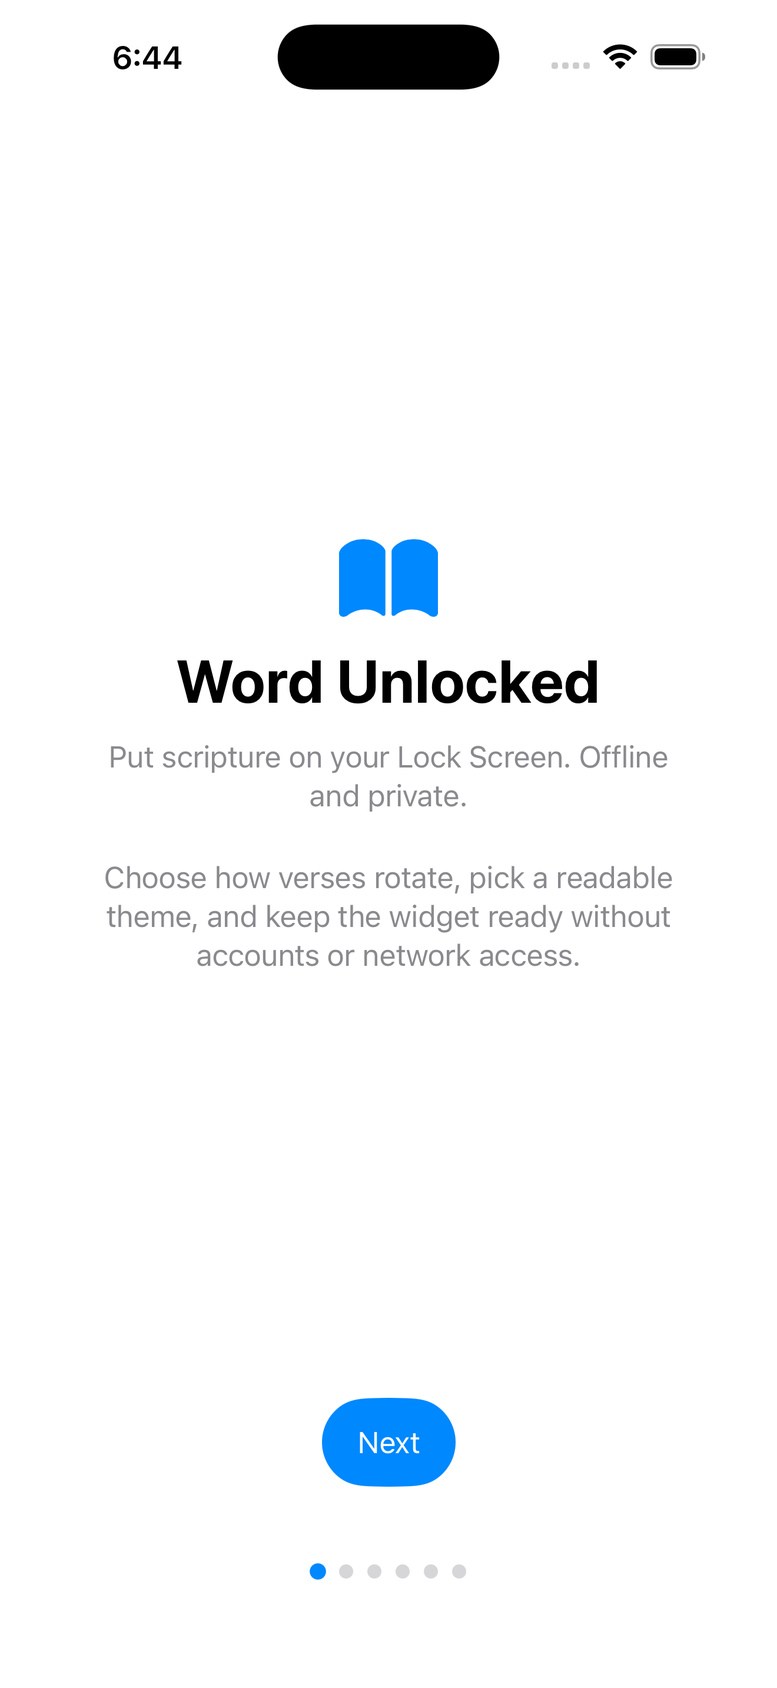
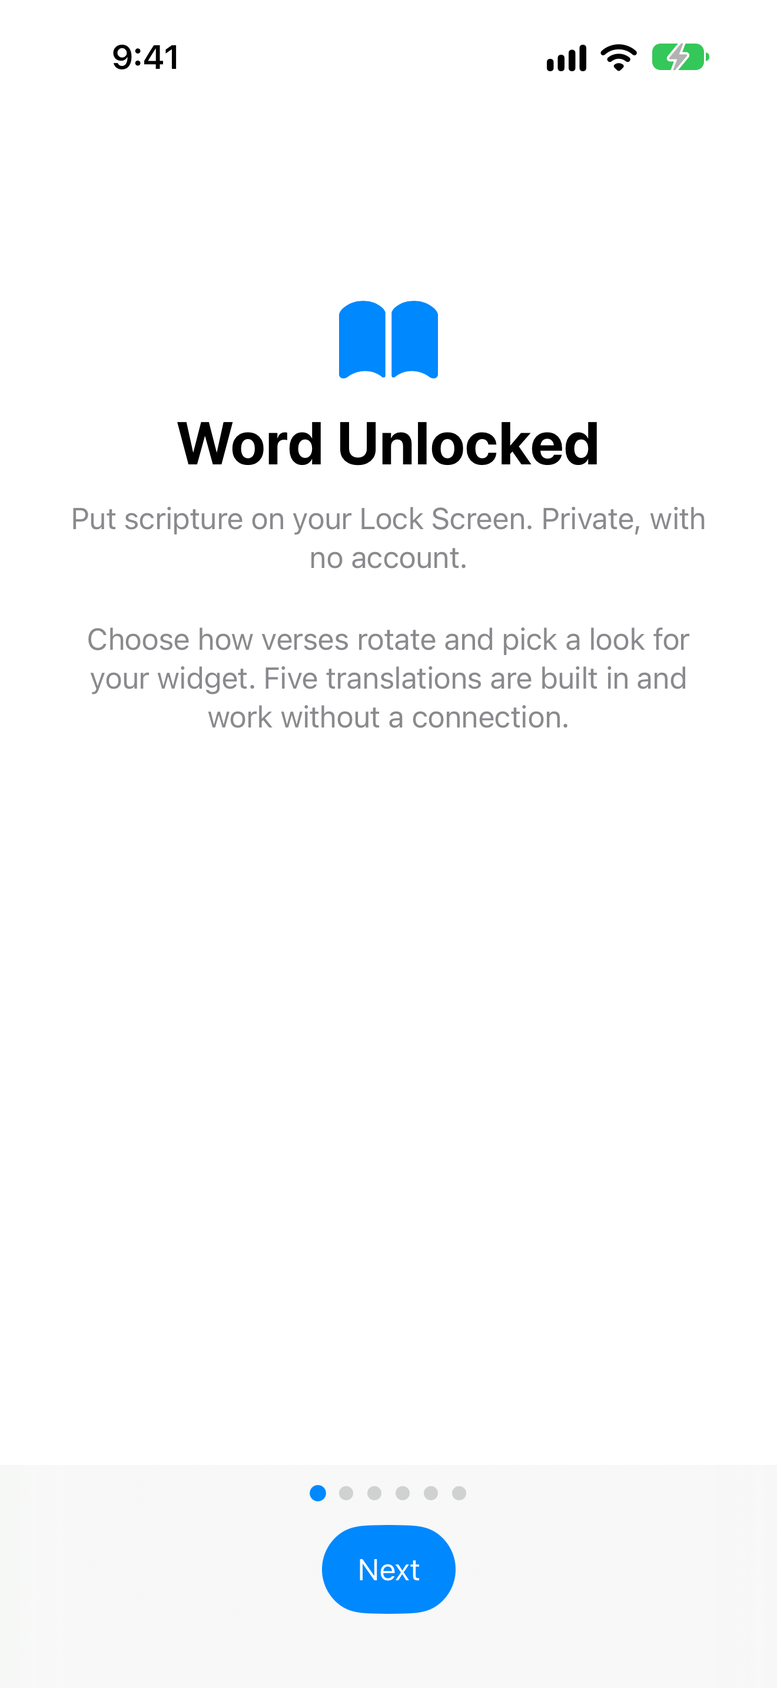
docs: align pages, listing and records with the audit fixes
- Privacy, support and landing pages say what reaches Crossway and Living
  Stream Ministry, that settings are in device backups, and where
  Translation now lives. Privacy policy dated September 28, 2026.
- The listing drops "used by permission" from the Recovery Version line
  (LSM's terms forbid implying a relationship) and describes themes, Daily
  Verse and Memorization as they now work.
- The nine 6.9" screenshots are retaken for the five-tab layout.
- HANDOFF.md records the batch, and corrects the contact address: the app
  and pages publish privacy@rippre.com, confirmed 2026-09-12; only commit
  metadata uses help@rippre.com. The engrams that said otherwise, and the
  one saying tests read keys from Info.plist, are corrected.

diff --git a/docs/privacy.html b/docs/privacy.html
@@ -6,7 +6,7 @@
 <meta charset="UTF-8">
 <meta name="viewport" content="width=device-width, initial-scale=1">
 <title>Privacy Policy — Word Unlocked</title>
-<meta name="description" content="Word Unlocked privacy policy: no accounts, no analytics, no tracking, no ads. Two optional live translations fetch verses only when selected.">
+<meta name="description" content="Word Unlocked privacy policy: no accounts, no analytics, no tracking, no ads. Two optional live translations request verses from their publishers only when selected.">
 <style>
   :root { color-scheme: dark; }
   * { box-sizing: border-box; }
@@ -147,7 +147,7 @@
 <main>
   <div class="wrap">
     <h1>Privacy Policy</h1>
-    <p class="updated">Last updated: September 14, 2026</p>
+    <p class="updated">Last updated: September 28, 2026</p>
 
     <div class="summary">
       <p>Word Unlocked at a glance:</p>
@@ -165,27 +165,27 @@
 
     <section>
       <h2>Data Collection</h2>
-      <p>No data is ever collected. Word Unlocked does not collect, store, or transmit any personal data. There are no accounts, no analytics, no advertising identifiers, and no crash reporting.</p>
+      <p>Word Unlocked collects no personal data. There are no accounts, no analytics, no advertising identifiers, and no crash reporting, and the app sends nothing to any server operated by Word Unlocked.</p>
       <p>This is reflected in the app's Apple Privacy Manifest and its App Store product page, where Word Unlocked's App Privacy is declared as "Data Not Collected."</p>
     </section>
 
     <section>
       <h2>Network Access</h2>
-      <p>Word Unlocked bundles five Bible translations that work entirely offline. Two additional translations are available live, and each only makes a network request when you actually select it.</p>
+      <p>Word Unlocked bundles five Bible translations that work entirely offline. Two more translations come from their publishers, and the app contacts a publisher only while its translation is selected.</p>
 
       <h3>Offline translations</h3>
       <p>King James Version (KJV), World English Bible (WEB), Berean Standard Bible (BSB), American Standard Version (ASV), and Literal Standard Version (LSV) are bundled with the app and stored entirely on your device. No network request is ever made when one of these translations is selected.</p>
 
       <h3>English Standard Version (ESV)</h3>
-      <p>When the English Standard Version is selected, the app downloads the verses your chosen mode will show next from <code>api.esv.org</code>, operated by Crossway, at most once every 48 hours. Up to 500 of them are kept on your device so the Lock Screen widget works offline; Crossway's terms allow no more than that, or half of any book. Requests contain only verse references &mdash; nothing is sent to any server operated by this app.</p>
+      <p>When the English Standard Version is selected, the app downloads the verses your chosen mode will show next from <code>api.esv.org</code>, operated by Crossway, at most once every 48 hours. Up to 500 of them are kept on your device so the Lock Screen widget works offline; Crossway's terms allow no more than that, or half of any book. Each request lists those verses, so it reflects the mode or topic you chose. Like any web request, it reaches Crossway with your device's IP address and basic app and system details, such as the app and iOS versions. Crossway handles these requests under its own privacy policy.</p>
 
       <h3>Recovery Version (RV)</h3>
-      <p>When the Recovery Version is selected, the verse you are reading is requested from <code>api.lsm.org</code>, operated by Living Stream Ministry. Its text is held in memory while you read and is never stored on your device, as Living Stream Ministry's terms require, so the Lock Screen widget shows the King James Version instead. Requests contain only the verse reference &mdash; nothing is sent to any server operated by this app.</p>
+      <p>When the Recovery Version is selected, the verse you are reading is requested from <code>api.lsm.org</code>, operated by Living Stream Ministry. Its text is held in memory while you read and is never stored on your device, as Living Stream Ministry's terms require, so the Lock Screen widget shows the King James Version instead. Like any web request, each one reaches Living Stream Ministry with the verse reference, your device's IP address and basic app and system details, such as the app and iOS versions. Living Stream Ministry handles these requests under its own privacy policy.</p>
     </section>
 
     <section>
       <h2>Local Storage</h2>
-      <p>Your settings, favorites, memorization progress, and downloaded English Standard Version verses are stored locally in an App Group container (<code>group.com.rippre.wordunlocked</code>), shared only between Word Unlocked and its Lock Screen widget on the same device. This data is never uploaded or shared externally.</p>
+      <p>Your settings, favorites, memorization progress, and downloaded English Standard Version verses are stored locally in an App Group container (<code>group.com.rippre.wordunlocked</code>), shared only between Word Unlocked and its widgets on the same device. Word Unlocked never uploads it; like other app data, it is included in your device's backups.</p>
     </section>
 
     <section>

diff --git a/docs/support.html b/docs/support.html
@@ -170,12 +170,17 @@
 
       <details>
         <summary>Why isn't my verse updating?</summary>
-        <p>iOS manages exactly when widgets refresh to save battery, so updates aren't always instant. First check Settings in the app to confirm you're in the mode and translation you expect &mdash; modes like Daily Verse, Topic, and Chapter each have their own update or rotation interval. If the English Standard Version is selected, new verses download at most once every 48 hours, and a verse that hasn&rsquo;t downloaded yet shows in the King James Version. The Recovery Version can&rsquo;t be stored on your device, so while it&rsquo;s selected the widget shows the King James Version.</p>
+        <p>iOS manages exactly when widgets refresh to save battery, so updates aren't always instant. First open Today in the app to confirm you're in the mode and translation you expect &mdash; modes like Daily Verse, Topic, and Chapter each have their own update or rotation interval, which you can change by tapping the mode in the Modes tab. If the English Standard Version is selected, new verses download at most once every 48 hours, and a verse that hasn&rsquo;t downloaded yet shows in the King James Version. The Recovery Version can&rsquo;t be stored on your device, so while it&rsquo;s selected the widget shows the King James Version.</p>
       </details>
 
       <details>
         <summary>How do I switch translations?</summary>
-        <p>Open the app and go to Settings, then use the Default Translation picker (or the Translations tab to browse all available translations). KJV, WEB, BSB, ASV, and LSV are available immediately since they're bundled offline. Selecting the English Standard Version downloads the verses your mode shows next; the Recovery Version loads each verse while you read.</p>
+        <p>Open the app, go to the Settings tab, and tap Translation. KJV, WEB, BSB, ASV, and LSV are available immediately since they're bundled offline. Selecting the English Standard Version downloads the verses your mode shows next; the Recovery Version loads each verse while you read.</p>
+      </details>
+
+      <details>
+        <summary>What do the long-verse options do?</summary>
+        <p>The Lock Screen widget has room for about 130 characters. In Settings, Long Verse Handling chooses what happens to a longer verse: Smart Fit and Excerpt show its opening, Segmented shows it in parts that take turns every 20 minutes, Reference Only shows just the reference, and Exclude Long skips long verses where the mode allows.</p>
       </details>
 
       <details>

diff --git a/docs/index.html b/docs/index.html
@@ -172,15 +172,15 @@
       </div>
       <div class="card">
         <h2>Nothing collected</h2>
-        <p>No accounts, no analytics, no ads, no tracking. Word Unlocked's App Store privacy label is "Data Not Collected."</p>
+        <p>No accounts, no analytics, no ads, no tracking, and no server of its own. Word Unlocked's App Store privacy label is "Data Not Collected."</p>
       </div>
       <div class="card">
         <h2>Two optional live translations</h2>
-        <p>The English Standard Version keeps up to 500 downloaded verses on your device for the Lock Screen; the Recovery Version loads while you read.</p>
+        <p>The English Standard Version keeps up to 500 downloaded verses on your device for the Lock Screen; the Recovery Version loads while you read. Both come straight from their publishers.</p>
       </div>
       <div class="card">
         <h2>Built for the Lock Screen</h2>
-        <p>Inline, circular, and rectangular widget styles designed for iOS Lock Screen customization.</p>
+        <p>Inline, circular, and rectangular Lock Screen widgets, plus themed Home Screen widgets and verse wallpapers that stay clear of the clock.</p>
       </div>
     </div>
 

diff --git a/HANDOFF.md b/HANDOFF.md
@@ -1,5 +1,70 @@
 # Handoff — Word Unlocked (Bible Widget App)
 
+## Update 2026-09-28 — every finding from the 2026-09-27 audit is fixed
+
+The audit (7 high, 14 medium, 22 low; private report
+https://claude.ai/artifact/LpkyYd96PZpsEx3W6AAuwo) is fixed in one batch. Verified with
+Xcode 27.0 and the iOS 27.0 simulator SDK: 104 tests in 10 suites pass (the two live API
+tests skip by design), and the Debug simulator build and the unsigned Release device build
+both have 0 warnings.
+
+**Licensing and privacy**
+- **No more URL cache.** Both live services use `LiveAPISession.shared`, an ephemeral
+  session with `urlCache = nil`, so no Recovery Version text, ESV download or API key
+  reaches `Library/Caches/…/Cache.db`. The app clears the old shared cache at every launch,
+  and deletes any Recovery Version rows that debug builds before this one copied into its
+  database. Checked after a live Recovery Version request: `Cache.db` held 0 rows.
+- **The keys left Info.plist.** The app target's first build phase, "Embed API Keys",
+  writes the three values from the gitignored `Config/Secrets.xcconfig` into
+  `$(DERIVED_FILE_DIR)/LiveAPIKeys.swift`, XOR-masked so neither the ESV key nor the LSM
+  token is a plain string in the binary (checked: 0 matches in the built .app; the LSM app
+  ID is just the bundle id). The project references that file with
+  `sourceTree = DERIVED_FILE_DIR` — Xcode does not compile a script's output on its own.
+  An empty or `YOUR_…` value means not configured, and the translation stays hidden.
+  **Rotation plan:** if a key is revoked or its quota abused, issue a new one at
+  api.esv.org or with LSM, put it in `Secrets.xcconfig`, rebuild and ship; watch both
+  providers' usage pages after launch.
+- **ESV's 48 hours can't be skipped.** The time is recorded before the request goes out
+  and rolled back only when the request never left the device (offline, DNS, TLS,
+  certificate or ATS failures). The download runs in its own task, so leaving Today
+  mid-download no longer throws it away.
+- **Every verse is labelled with its own translation** (`Verse.translationCode`), so ESV
+  text never shows as KJV, and a favorite keeps the translation it was saved in.
+- Privacy wording in the app, on the three pages and in the listing now says what reaches
+  Crossway and LSM (IP address, app and OS version, the verses asked for). The listing no
+  longer says Recovery Version text is "used by permission".
+
+**What people see**
+- Daily Verse draws from the 665 curated verses in a shuffled order (matched by book,
+  chapter and verse in the other translations), keeping the testament filters.
+- Memorization shows its steps on Today and the widget: whole verse, blanks, first
+  letters, reference only, review — one step per local calendar day.
+- Five tabs (Translations moved into Settings), onboarding keeps Next visible, the active
+  mode's settings open, mode sheets save and close, Search reads "Psalm 23", "1 Kings 2",
+  "Jude 3" and ranges, Favorites has Edit, reorder, Share and Remove.
+- Widget: Segmented takes turns every 20 minutes within a verse's slot, Reference Only
+  shows the reference, Chapter's Show Progress adds "Verse 3 of 36", tapping a widget
+  opens Today, references are written out ("1 Kings 2:2"), and a timeline built before
+  first unlock is retried after 15 minutes instead of at midnight.
+- New "Automatic" theme follows Light and Dark Mode and is the default; three accents
+  were darkened to pass 4.5:1.
+- Favorites decode one by one and are rewritten only when a migration changed them; old
+  Recovery Version favorites become the KJV text of the same verse.
+- Seed scripts verify TLS and pin their sources by commit or SHA-256;
+  `fetch_esv_seed.py` is deleted. The current BSB source differs from the shipped seed
+  only at 2 Timothy 1:15 ("province" vs "Province"); the database was not regenerated.
+
+**Correction — the contact address is privacy@rippre.com.** Item 5 below used to say
+help@rippre.com is used everywhere. It isn't: the owner confirmed privacy@rippre.com on
+2026-09-12, and the 2026-09-14 history rewrite changed only the commit author email to
+help@rippre.com. The app and all three hosted pages publish privacy@rippre.com.
+
+The nine 6.9" screenshots in `marketing/screenshots/6.9/` were retaken from a fresh
+install on a dedicated iPhone 17 Pro Max simulator ("WordUnlocked Shots", iOS 27.0,
+status bar set to 9:41), so they show the five tabs and the new Today.
+
+**Still the owner's:** Apple signing and the App Store Connect record.
+
 ## Update 2026-09-22 — where the to-do list actually stands
 
 Nothing is in flight. `main` = `origin/main` = `b5ef1ce`, working tree clean; 72/72 tests
@@ -258,8 +323,9 @@ Kept for the detail in it; see the 2026-09-22 update above for what is still ope
    Original note:
    **GitHub Pages** — enable it (Settings → Pages → main, `/docs`), then put the
    resulting privacy/support URLs into App Store Connect.
-5. ~~**Decide `privacy@rippre.com`**~~ — DONE; the contact address is help@rippre.com
-   everywhere, including the rewritten commit history. Original note:
+5. ~~**Decide `privacy@rippre.com`**~~ — DONE; the contact address is privacy@rippre.com,
+   confirmed by the owner on 2026-09-12. Only the commit author email became
+   help@rippre.com (2026-09-14). Original note:
    **Decide `privacy@rippre.com`** — the in-app policy (SettingsView.swift:232) still
    shows it; the hosted pages used a personal address. Align once the user decides
    whether they own/keep the rippre.com mailbox.
@@ -291,19 +357,25 @@ Kept for the detail in it; see the 2026-09-22 update above for what is still ope
 - macOS has **no `timeout` command**; don't wrap network git calls with it.
 - Simulator point spaces used for taps: iPhone 17 Pro = 402×874, Pro Max = 440×956.
   Tab bar y≈839 (17 Pro); tabs at x≈62/127/201/275/340.
-- DEBUG-only dead path: `RVBibleService.fetch` tries `translationCode: "RV"` from the
-  seed DB, which has no RV rows (`rv_testing.json` is 665 verses, unused). Harmless;
-  release path unaffected.
+- ~~DEBUG-only dead path in `RVBibleService.fetch`~~ — removed 2026-09-28 along with the
+  local `seed_verses_rv_testing.json` (moved to the Trash; LSM's terms forbid keeping RV
+  text). The `.gitignore` line for it stays.
+- **A failing `xcodebuild test` then sits for up to 10 minutes** running
+  `simctl diagnose`. Pass `-collect-test-diagnostics never` to get the result at once.
+- **A Run Script's output is not compiled automatically**, even a `.swift` file listed
+  under Output Files: the target also needs a file reference to it (here
+  `sourceTree = DERIVED_FILE_DIR`) in its Sources phase.
 
 ## How to verify the world is still green
 
 ```bash
 cd "/Users/yg/Repositories/Bible Widget App/WordUnlocked"
 xcodebuild test -project WordUnlocked.xcodeproj -scheme WordUnlocked \
-  -sdk iphonesimulator -destination 'platform=iOS Simulator,name=iPhone 17 Pro Max'
+  -sdk iphonesimulator -destination 'platform=iOS Simulator,name=iPhone 17 Pro Max' \
+  -collect-test-diagnostics never
 ```
-Expect: `Test run with 72 tests in 5 suites passed` + `** TEST SUCCEEDED **` (the two live
-API tests are skipped unless `TEST_RUNNER_LIVE_API_TESTS=1` is set).
+Expect: `Test run with 104 tests in 10 suites passed` + `** TEST SUCCEEDED **` (the two
+live API tests are skipped unless `TEST_RUNNER_LIVE_API_TESTS=1` is set).
 Widget: same command with `-scheme WordUnlockedWidget` and `build` → BUILD SUCCEEDED.
 
 ## Fastest path to "submitted"

diff --git a/.engram/engrams/01m2c7cr5tj1yzhqfvcyjr46r5-word-unlocked-ship-status-2026-09-12.md b/.engram/engrams/01m2c7cr5tj1yzhqfvcyjr46r5-word-unlocked-ship-status-2026-09-12.md
@@ -8,12 +8,12 @@ tags:
   - app-store
 scope: project
 created: 2026-09-13T01:51:29.977Z
-updated: 2026-09-23T00:41:45.473Z
+updated: 2026-09-29T23:44:04.732Z
 author: HeiroGlyphics
 ---
 - Repo is public, and GitHub Pages is live at burntsteam.github.io/word-unlocked. The privacy and support URLs are recorded in marketing/app-store-listing.md.
-- The contact email is help@rippre.com everywhere: the app, docs/*.html, the listing, and commit metadata. (It was privacy@rippre.com until 2026-09-14.)
-- 6.9-inch screenshots are committed at marketing/screenshots/6.9.
+- The published contact address is privacy@rippre.com: the app's privacy policy, docs/*.html and the listing. The owner confirmed it on 2026-09-12. Only commit metadata uses help@rippre.com, since the 2026-09-14 history rewrite. (This engram used to say help@rippre.com was used everywhere; corrected 2026-09-28.)
+- 6.9-inch screenshots are committed at marketing/screenshots/6.9 (retaken 2026-09-28 for the five-tab layout, on a dedicated "WordUnlocked Shots" iPhone 17 Pro Max simulator).
 - ESV was enabled 2026-09-12. The key lives only in the gitignored Config/Secrets.xcconfig; the repo is public, so never commit it.
 
 2026-09-14 history rewrite: the owner asked for commit metadata to use help@rippre.com.
@@ -21,11 +21,11 @@ author: HeiroGlyphics
 - The repo-local user.email is help@rippre.com.
 - The pre-rewrite commits may stay fetchable on GitHub by SHA until GitHub garbage-collects them or Support purges them.
 
-2026-09-14 licensing pass: ESV is stored up to Crossway's limit (500 verses, never more than half a book) and downloads at most once every 48 hours; the Recovery Version is never stored, because LSM's terms forbid it. 72/72 tests including two live API tests, Release build 0 warnings.
+2026-09-14 licensing pass: ESV is stored up to Crossway's limit (500 verses, never more than half a book) and downloads at most once every 48 hours; the Recovery Version is never stored, because LSM's terms forbid it.
 
 2026-09-22: GitHub secret scanning and push protection are ON, history backfill 0 alerts — but generic-pattern scanning needs Advanced Security, so GitHub cannot see the ESV key or the LSM token. See 01m35dg60qnxvecf4ftpqchqpz. The local leak scan is still the real guard and is written into HANDOFF.md.
 
-2026-09-22: the graphify graph is current and complete for the first time — 65/65 communities named (87 curated names) and 730/734 nodes described, both in tracked sidecars. HANDOFF.md's top section has the state; 01m35jdk86gaqfqqtdgr68mgxa has the describe recipe and the CLI gotcha.
+2026-09-28: every finding of the 2026-09-27 audit (01m3hpvk) is fixed; 104 tests in 10 suites, Debug and Release 0 warnings on Xcode 27.0. HANDOFF.md's top section has the details.
 
 Remaining user-only items (everything else is done):
 - Xcode signing (0 identities, no DEVELOPMENT_TEAM) — blocks archiving

diff --git a/.engram/engrams/01m3hpvk1ewvqp04knc583vftr-word-unlocked-audit-2026-09-27-all-43-findings-fixed-2026-09.md b/.engram/engrams/01m3hpvk1ewvqp04knc583vftr-word-unlocked-audit-2026-09-27-all-43-findings-fixed-2026-09.md
@@ -1,0 +1,28 @@
+---
+id: 01m3hpvk1ewvqp04knc583vftr
+title: >-
+  Word Unlocked audit 2026-09-27: all 43 findings fixed 2026-09-28; URLCache
+  stored RV text
+type: issue
+tags:
+  - word-unlocked
+  - audit
+  - url-cache
+  - recovery-version
+  - esv
+  - licensing
+  - ux
+  - gotcha
+  - testing
+scope: project
+created: 2026-09-27T15:13:38.861Z
+updated: 2026-09-28T07:25:55.871Z
+author: HeiroGlyphics
+---
+Full code + live UI/UX audit on 2026-09-27 (report: https://claude.ai/artifact/LpkyYd96PZpsEx3W6AAuwo, private to the owner): 7 high, 14 medium, 22 low. All fixed on 2026-09-28; HANDOFF.md's top section lists what changed.
+
+Gotcha worth keeping: URLSession.shared's URLCache writes responses to Library/Caches/com.rippre.wordunlocked/Cache.db. Before the fix that stored Recovery Version text (LSM forbids it), every 300-verse ESV download under a new URL (can exceed Crossway's 500-verse cap over time), and the ESV key inside the cached request. Both live services now use LiveAPISession.shared (ephemeral, urlCache = nil), and the app clears URLCache.shared at launch. Verified 2026-09-28 after a live RV request: Cache.db had 0 rows and nothing under Library mentioned either API.
+
+The owner decision the audit raised is settled: the contact address is privacy@rippre.com (see 01m2c7cr).
+
+Testing technique: the simulator panel needs a one-time device-access approval before taps work. Without it, a throwaway XcodeGen UI-test bundle in the scratchpad can drive the installed app through XCUIApplication(bundleIdentifier: "com.rippre.wordunlocked"), with no change to the repo. Onboarding's ScrollViews ignore fast swipes, so use press(forDuration:thenDragTo:withVelocity: .slow). With .searchable, Search's keyboard covers the tab bar: tap the "Close" button before switching tabs. Home Screen widgets land on the page that was long-pressed, and pressing Home returns to a different page, so swipe to find them. widgetURL reaches onOpenURL with no URL scheme registered.

diff --git a/marketing/app-store-listing.md b/marketing/app-store-listing.md
@@ -75,16 +75,17 @@ offline. The Recovery Version loads while you read and isn't stored on your phon
 
 VERSES THAT MEET THE MOMENT
 Pick the rhythm that fits your walk:
-• Daily Verse — a new passage each day
+• Daily Verse — a well-loved verse each day
 • Topics — go straight to anxiety, fear, strength, faith, hope, peace,
   forgiveness, grief, patience, gratitude, and more
 • Weekly Plan — seven verses a week from a theme, chapter, book, or your own list
 • Chapter — walk through a book, verse by verse
-• Memorization — focus on the verses you're committing to heart
+• Memorization — learn a verse step by step, with less of it shown each day
 • Favorites — save the ones that stay with you
 
 MAKE IT YOURS
-• Clean, readable themes that look right on any wallpaper
+• Clean, readable themes for the Home Screen widget and wallpapers, including
+  one that follows Light and Dark Mode
 • Set as Wallpaper — turn a verse into a Lock Screen background that stays clear
   of the clock
 • Long verses are handled gracefully, so text never spills off the widget
@@ -98,8 +99,8 @@ Add the widget today and keep a verse in front of you — wherever the day takes
 you.
 
 — Public domain and openly licensed translations included. LSV © Covenant Press
-(CC BY-SA). ESV text © Crossway and Recovery Version text © Living Stream
-Ministry, both used by permission.
+(CC BY-SA). ESV text © Crossway, used by permission. Recovery Version text
+© Living Stream Ministry (lsm.org).
 
 ---
 

diff --git a/.engram/engrams/01m2ch05nhhzk5pyy443bt9dhx-word-unlocked-tests-run-inside-the-app-so-they-see-the-real-.md b/.engram/engrams/01m2ch05nhhzk5pyy443bt9dhx-word-unlocked-tests-run-inside-the-app-so-they-see-the-real-.md
@@ -1,0 +1,18 @@
+---
+id: 01m2ch05nhhzk5pyy443bt9dhx
+title: Word Unlocked tests run inside the app, so they see the real API keys
+type: decision
+tags:
+  - word-unlocked
+  - testing
+  - gotcha
+  - esv
+  - secrets
+scope: project
+created: 2026-09-13T04:39:23.568Z
+updated: 2026-09-28T07:25:55.608Z
+author: HeiroGlyphics
+---
+WordUnlockedTests has TEST_HOST=WordUnlocked.app, so a unit test runs in the app module and can reach the real keys. Since 2026-09-28 the keys are no longer in Info.plist: the "Embed API Keys" build phase writes them from the gitignored Config/Secrets.xcconfig into a generated, masked LiveAPIKeys.swift, which the live tests read (LiveAPIKeys.esvAPIKey, .lsmAppID, .lsmToken).
+
+Tests that assumed "no key" broke the moment the ESV key was added (2026-09-12) and would have made live api.esv.org calls that persist into the widget's App Group store. Decision: ESVBibleService and RVBibleService take their keys through init (shared reads LiveAPIKeys; static isConfigured delegates to shared), and tests build their own instances with test credentials and StubURLProtocol. Never assert on the real keys in tests; the repo is public and contributors build without keys, which leaves them empty and the live translations hidden.
